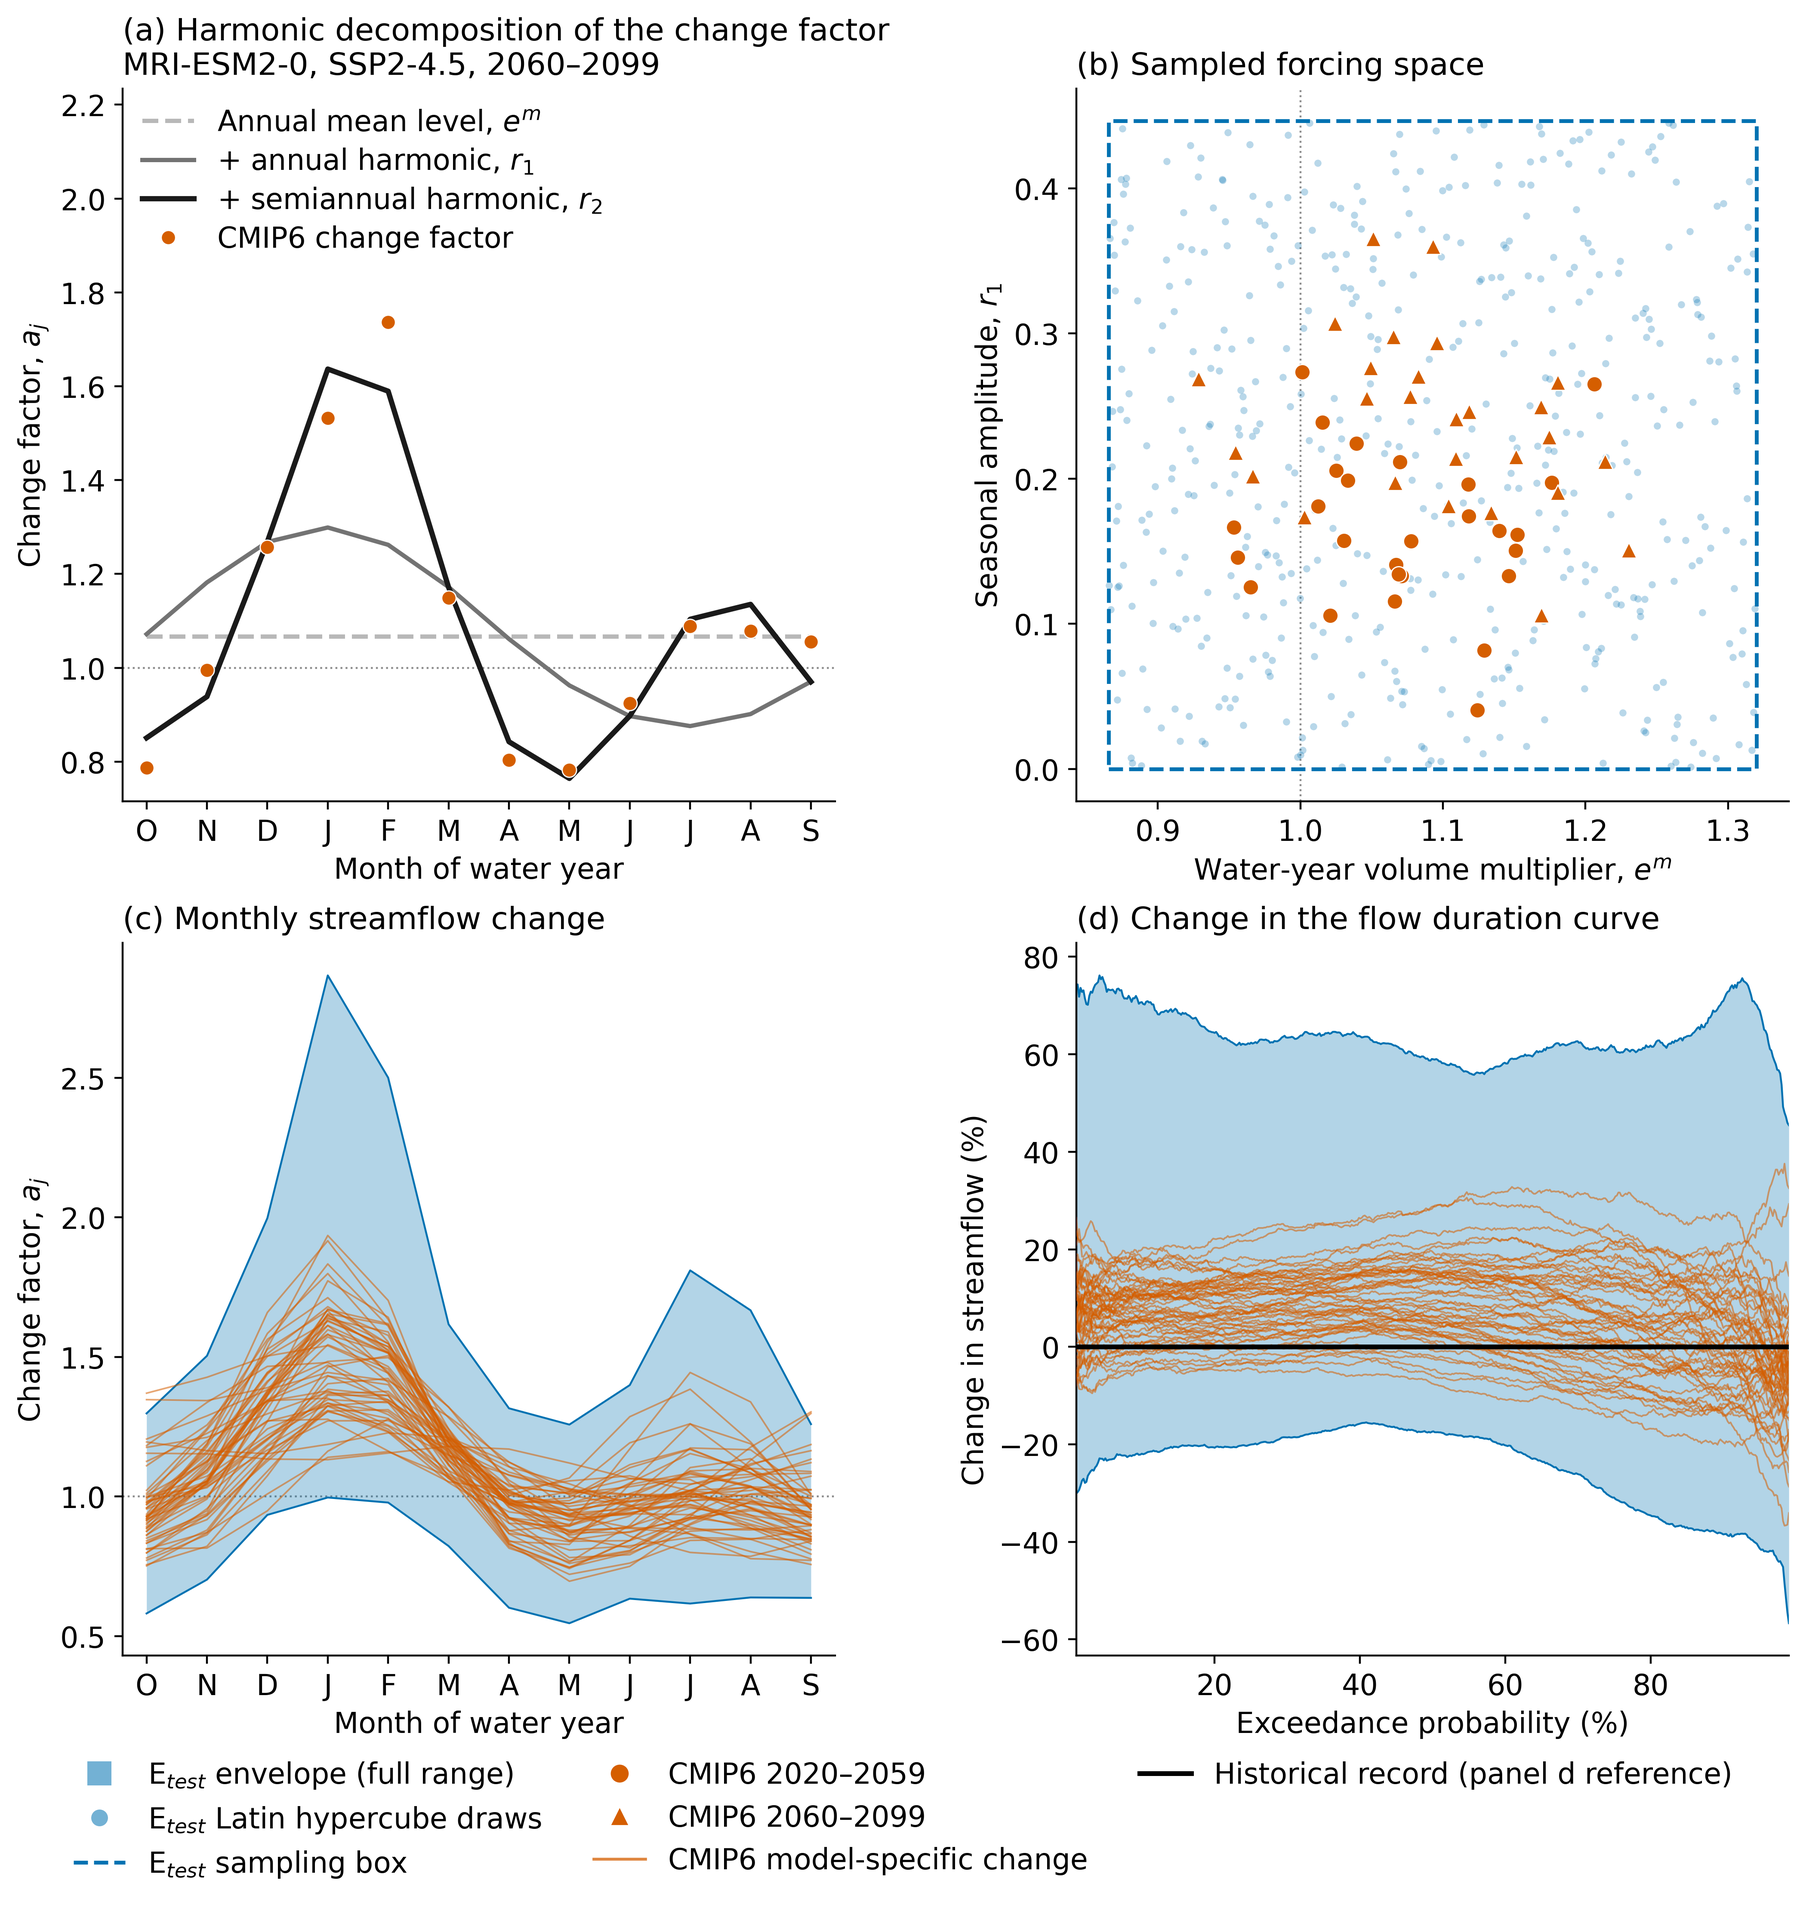
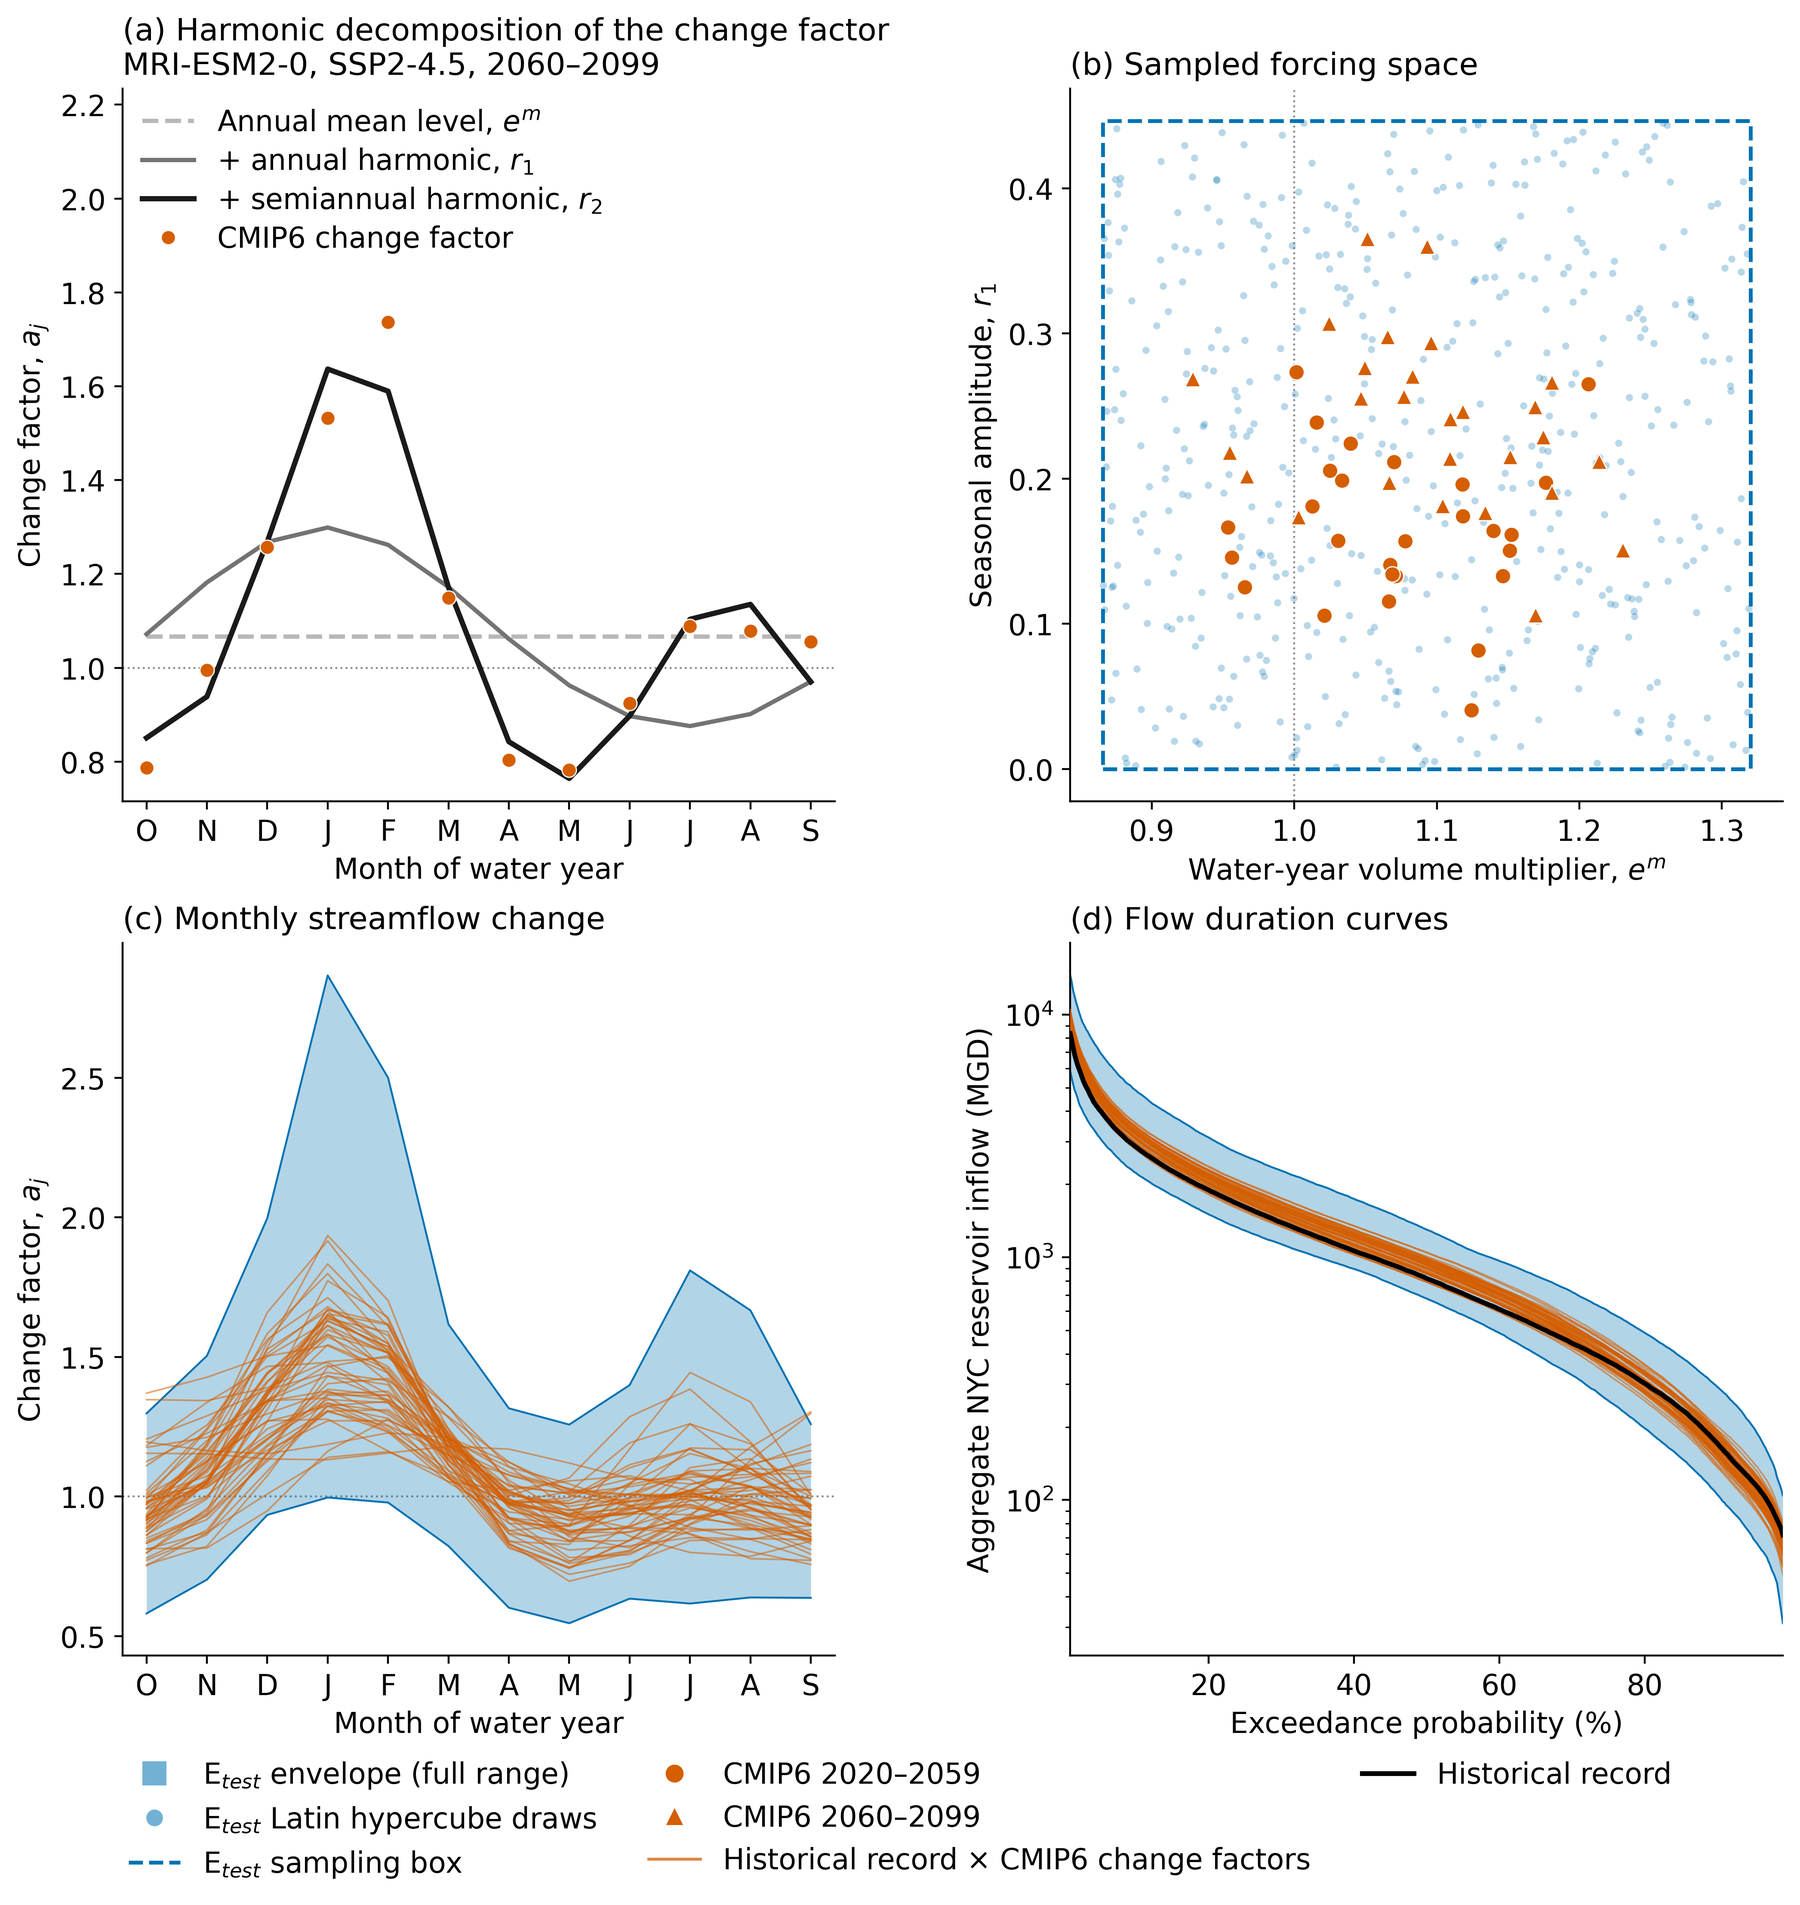
update DU sampling and range figure to use basic FDC instead of change

diff --git a/src/plotting/forcing_space.py b/src/plotting/forcing_space.py
@@ -25,7 +25,7 @@ Panels
 (a) :func:`panel_harmonic_decomposition` - the model, built up one term at a time
 (b) :func:`panel_parameter_space`        - fitted CMIP6 params, LHS draws, sampling box
 (c) :func:`panel_monthly_change`         - monthly change factors: LHS envelope vs CMIP6
-(d) :func:`panel_flow_duration`          - change in flow duration curve: E_test vs CMIP6
+(d) :func:`panel_flow_duration`          - flow duration curves: E_test, CMIP6-shifted record, record
 
 Provenance rule
 ---------------
@@ -427,18 +427,42 @@ def panel_monthly_change(ax, fits: dict, sample: dict,
     ax.set_title("(c) Monthly streamflow change", loc="left")
 
 
-def _pct_change(future: np.ndarray, baseline: np.ndarray) -> np.ndarray:
-    """Percent change of ``future`` against ``baseline``, elementwise.
+def cmip6_shifted_historic_fdcs(fits: dict, exceedance: np.ndarray,
+                                nodes: tuple[str, ...]) -> np.ndarray:
+    """FDCs of the historical record after each CMIP6 run's change factors.
 
-    Broadcasting-friendly, so one baseline row serves a whole ensemble. Any
-    non-positive baseline flow is returned as NaN rather than a spike: on the
-    trimmed exceedance domain the aggregate NYC inflow is strictly positive, so
-    this is a guard, not a routine path.
+    Each run's raw monthly change factor ``a_j`` (the CMIP6 table that panels
+    (a)-(c) are fitted on) multiplies every day of the matching water-year
+    month of the reconstructed aggregate NYC inflow, and the scaled record is
+    reduced to a flow duration curve on ``exceedance``. This is the record-based
+    counterpart of the E_test realizations, which the generator drives with the
+    sampled harmonic change factors on the same record: the two sources share
+    one baseline, and the raw CMIP6 flows' hydrologic-model bias never enters
+    the panel. The raw factors are used rather than the harmonic fits so the
+    panel checks the parameterization instead of restating it.
+
+    Args:
+        fits: Output of :func:`load_cmip6_fits`.
+        exceedance: Exceedance grid in percent (the cache's ``exceedance``).
+        nodes: Catchments summed into the aggregate inflow (the cache's
+            ``nyc_nodes``, so the record matches the cached historical FDC).
+
+    Returns:
+        ``(K, len(exceedance))`` flows in MGD, rows in the order of ``fits["df"]``.
     """
-    baseline = np.asarray(baseline, dtype=float)
-    with np.errstate(divide="ignore", invalid="ignore"):
-        out = 100.0 * (np.asarray(future, dtype=float) / baseline - 1.0)
-    return np.where(baseline > 0, out, np.nan)
+    from scengen import forcing_space as fs
+    from scripts.main.forcing_fdc_cache import fdc_on_grid
+    from src.load.historical_flows import load_historical_flows
+
+    flows = load_historical_flows(gage=False, period="full")
+    record = flows.loc[:, list(nodes)].sum(axis=1)
+    slot_of_month = np.empty(13, dtype=int)
+    for j, month in enumerate(fs.WATER_YEAR_MONTHS):
+        slot_of_month[month] = j
+    slot = slot_of_month[record.index.month]
+    base = record.to_numpy(dtype=float)
+    exceedance = np.asarray(exceedance, dtype=float)
+    return np.vstack([fdc_on_grid(base * a[slot], exceedance) for a in fits["A"]])
 
 
 def etest_cache_rows(cached_ids: np.ndarray, realization_ids: np.ndarray) -> np.ndarray:
@@ -473,67 +497,51 @@ def etest_cache_rows(cached_ids: np.ndarray, realization_ids: np.ndarray) -> np.
     return np.flatnonzero(np.isin(cached_ids, wanted))
 
 
-def panel_flow_duration(ax, cache, pctl: tuple[float, float], *,
-                        realization_ids: np.ndarray | None = None) -> None:
-    """(d) Change in the flow duration curve of aggregate NYC reservoir inflow.
+def panel_flow_duration(ax, cache, cmip6_fdc: np.ndarray, pctl: tuple[float, float],
+                        *, realization_ids: np.ndarray | None = None) -> None:
+    """(d) Flow duration curves of aggregate NYC reservoir inflow.
 
-    Plotted as the percent change in flow at each exceedance probability rather
-    than the absolute curves: on a log flow axis the three sources overlie each
-    other almost exactly, and it is the *shift* that the forcing space is
-    supposed to span.
+    Three sources on one log flow axis, all built on the reconstructed
+    historical record so they differ only by the forcing applied to it:
+
+        E_test   the staged realizations, the Kirsch-Nowak generator driven by
+                 the sampled harmonic change factors (the envelope also carries
+                 the generator's internal variability, which is part of the
+                 ensemble's spread and is not removed)
+        CMIP6    the record scaled by each run's raw monthly change factors
+                 (:func:`cmip6_shifted_historic_fdcs`), one line per run
+        record   the historical record itself
 
     Args:
         ax: Target axes.
-        cache: The FDC cache written by ``scripts/main/forcing_fdc_cache.py``.
+        cache: The FDC cache written by ``scripts/main/forcing_fdc_cache.py``
+            (E_test rows, the historical FDC and the exceedance grid).
+        cmip6_fdc: ``(K, n_grid)`` CMIP6-shifted record FDCs on the cache's
+            exceedance grid.
         pctl: Envelope percentiles (:func:`envelope_pctl`).
         realization_ids: Global ids of the staged E_test's realizations. When
             given, only their cache rows are drawn (:func:`etest_cache_rows`);
             ``None`` draws every cached row.
-
-    Each source is differenced against its OWN baseline, which is what makes the
-    two comparable:
-
-        E_test   against the reconstructed historical record it was generated
-                 from, so the change is the sampled forcing signal (plus the
-                 Kirsch-Nowak generator's internal variability, which is part of
-                 the ensemble's spread and is not removed)
-        CMIP6    against that run's own 1980-2019 historical sibling, so each
-                 hydrologic model's bias relative to the reconstruction cancels
-                 and the line is the model's projected change
-
-    This is the same baseline convention the monthly change factors of panels
-    (b)/(c) were fitted on, so panel (d) is an independent daily-flow check on
-    the parameterization rather than a restatement of it. The historical record
-    is the reference and therefore plots as the 0% line.
     """
     exceedance = np.asarray(cache["exceedance"], dtype=float)
     keep = (exceedance >= FDC_PLOT_DOMAIN[0]) & (exceedance <= FDC_PLOT_DOMAIN[1])
     exceedance = exceedance[keep]
 
-    if "cmip6_baseline_fdc" not in cache.files:
-        raise KeyError(
-            "FDC cache predates the change-based panel (d): it has no "
-            "'cmip6_baseline_fdc'. Rebuild it with "
-            "`sbatch --export=ALL,NYCOPT_FIG_REFRESH=1 workflow/13_main_figures.sh`."
-        )
-
-    historic = np.asarray(cache["historic_fdc"], dtype=float)[keep]
     etest = np.asarray(cache["etest_fdc"])
     if realization_ids is not None:
         etest = etest[etest_cache_rows(cache["etest_realization_ids"], realization_ids)]
-    etest_pct = _pct_change(etest[:, keep], historic)
-    cmip6_pct = _pct_change(np.asarray(cache["cmip6_fdc"])[:, keep],
-                            np.asarray(cache["cmip6_baseline_fdc"])[:, keep])
 
-    _draw_envelope(ax, exceedance, etest_pct, pctl, color=ETEST_COLOR)
-    for curve in cmip6_pct:
+    _draw_envelope(ax, exceedance, etest[:, keep], pctl, color=ETEST_COLOR)
+    for curve in np.asarray(cmip6_fdc, dtype=float)[:, keep]:
         ax.plot(exceedance, curve, color=CMIP6_COLOR, lw=0.7, alpha=0.55, zorder=3)
-    ax.axhline(0.0, color=HISTORIC_COLOR, lw=2.0, zorder=5)
+    ax.plot(exceedance, np.asarray(cache["historic_fdc"], dtype=float)[keep],
+            color=HISTORIC_COLOR, lw=2.0, zorder=5)
 
+    ax.set_yscale("log")
     ax.set_xlim(*FDC_PLOT_DOMAIN)
     ax.set_xlabel("Exceedance probability (%)")
-    ax.set_ylabel("Change in streamflow (%)")
-    ax.set_title("(d) Change in the flow duration curve", loc="left")
+    ax.set_ylabel("Aggregate NYC reservoir inflow (MGD)")
+    ax.set_title("(d) Flow duration curves", loc="left")
 
 
 # ---------------------------------------------------------------------------
@@ -578,15 +586,14 @@ def shared_legend_handles(pctl: tuple[float, float]) -> list:
                markeredgewidth=0.5, color="none", label=PERIOD_LABELS[p])
         for p in ("2020_2059", "2060_2099")
     ]
-    # The vermillion LINES of panels (c) and (d): one per CMIP6 run, each its
-    # own fitted change factor / own change against its own historical sibling.
+    # The vermillion LINES of panels (c) and (d): one per CMIP6 run, its fitted
+    # change factor in (c) and the record scaled by its raw change factors in (d).
     cmip6.append(
         Line2D([0], [0], lw=1.2, color=CMIP6_COLOR, alpha=0.75,
-               label="CMIP6 model-specific change")
+               label="Historical record × CMIP6 change factors")
     )
     historic = [
-        Line2D([0], [0], lw=2.0, color=HISTORIC_COLOR,
-               label="Historical record (panel d reference)")
+        Line2D([0], [0], lw=2.0, color=HISTORIC_COLOR, label="Historical record")
     ]
 
     rows = max(len(etest), len(cmip6), len(historic))

diff --git a/src/plotting/forcing_figure.py b/src/plotting/forcing_figure.py
@@ -27,14 +27,17 @@ def build_forcing_space(ctx, out_stub: Path, table_dir: Path) -> list[Path]:
         (a) the harmonic model, one term at a time, on a representative CMIP6 run
         (b) the fitted CMIP6 parameters, the E_test draws, and the sampling box
         (c) the monthly change factors the sample implies, against the CMIP6 fits
-        (d) the resulting change in the flow duration curve, against the
-            model-specific change of the raw CMIP6 flows
+        (d) the flow duration curves of the E_test realizations, against the
+            historical record and that record scaled by each CMIP6 run's
+            monthly change factors
 
     Panels (a)-(c) come from the CMIP6 change-factor table and the as-built
-    ``forcing_profiles.npz``; panel (d) reads the FDC cache produced by
-    ``scripts/main/forcing_fdc_cache.py``, keeping only the rows of the staged
-    E_test's own realizations. The cache must have been built on that E_test
-    or on the generated parent it was cut from, under the same forcing hash.
+    ``forcing_profiles.npz``; panel (d) reads the E_test rows and the historical
+    record from the FDC cache produced by ``scripts/main/forcing_fdc_cache.py``,
+    keeping only the staged E_test's own realizations, and scales the record by
+    the CMIP6 change factors at plot time. The cache must have been built on
+    that E_test or on the generated parent it was cut from, under the same
+    forcing hash.
     """
     import json
 
@@ -74,7 +77,9 @@ def build_forcing_space(ctx, out_stub: Path, table_dir: Path) -> list[Path]:
                 f"FDC cache forcing_hash {str(cache['forcing_hash'])!r} does not "
                 f"match the staged E_test's {meta.get('forcing_hash')!r}."
             )
-        fspace.panel_flow_duration(axes[1, 1], cache, pctl,
+        cmip6_fdc = fspace.cmip6_shifted_historic_fdcs(
+            fits, cache["exceedance"], tuple(str(n) for n in cache["nyc_nodes"]))
+        fspace.panel_flow_duration(axes[1, 1], cache, cmip6_fdc, pctl,
                                    realization_ids=sample["realization_ids"])
 
     for ax in axes.flat:

diff --git a/scripts/main/forcing_fdc_cache.py b/scripts/main/forcing_fdc_cache.py
@@ -1,7 +1,10 @@
 """Build the flow-duration-curve cache backing panel (d) of the forcing-space figure.
 
-Panel (d) compares three sources of daily aggregate NYC reservoir inflow on one
-flow duration curve (FDC) axis:
+Panel (d) draws the E_test envelope and the historical record from this cache
+on one flow duration curve (FDC) axis of daily aggregate NYC reservoir inflow.
+Its CMIP6 lines, the record scaled by each run's monthly change factors, are
+cheap and computed at plot time
+(``src.plotting.forcing_space.cmip6_shifted_historic_fdcs``). Cached sources:
 
     E_test    the re-evaluation ensemble's realizations (Kirsch-Nowak generator
               driven by the sampled harmonic forcing) - 12,500 x 50 years for
@@ -10,8 +13,9 @@ flow duration curve (FDC) axis:
               realization id (``src.plotting.forcing_space.etest_cache_rows``)
     CMIP6     the raw DBCCA-downscaled, PRMS/VIC5-simulated daily flows of the
               54 CMIP6 future runs - 40 years each, each paired with its OWN
-              1980-2019 historical sibling run so the figure can show a
-              model-specific change rather than a change plus model bias
+              1980-2019 historical sibling run. The raw-flow reference, kept
+              for diagnostics and not drawn in the main figure, where each
+              hydrologic model's bias against the reconstruction would dominate
     historic  the reconstructed historical record
 
 Reading the E_test daily flows costs ~5.5 GB of HDF5 I/O across the cut's 25

diff --git a/src/figures/registry.py b/src/figures/registry.py
@@ -237,8 +237,8 @@ FIGURES: tuple[FigureSpec, ...] = (
         tier="manuscript", number=3, section="2",
         kind="forcing_space", needs=frozenset({"ensemble", "fdc_cache"}),
         caption="Construction of the deeply uncertain forcing space "
-                "(harmonic model, CMIP6 fits, sampled box, change in the "
-                "flow duration curve).",
+                "(harmonic model, CMIP6 fits, sampled box, flow duration "
+                "curves).",
     ),
     FigureSpec(
         name="ensemble_composition",
